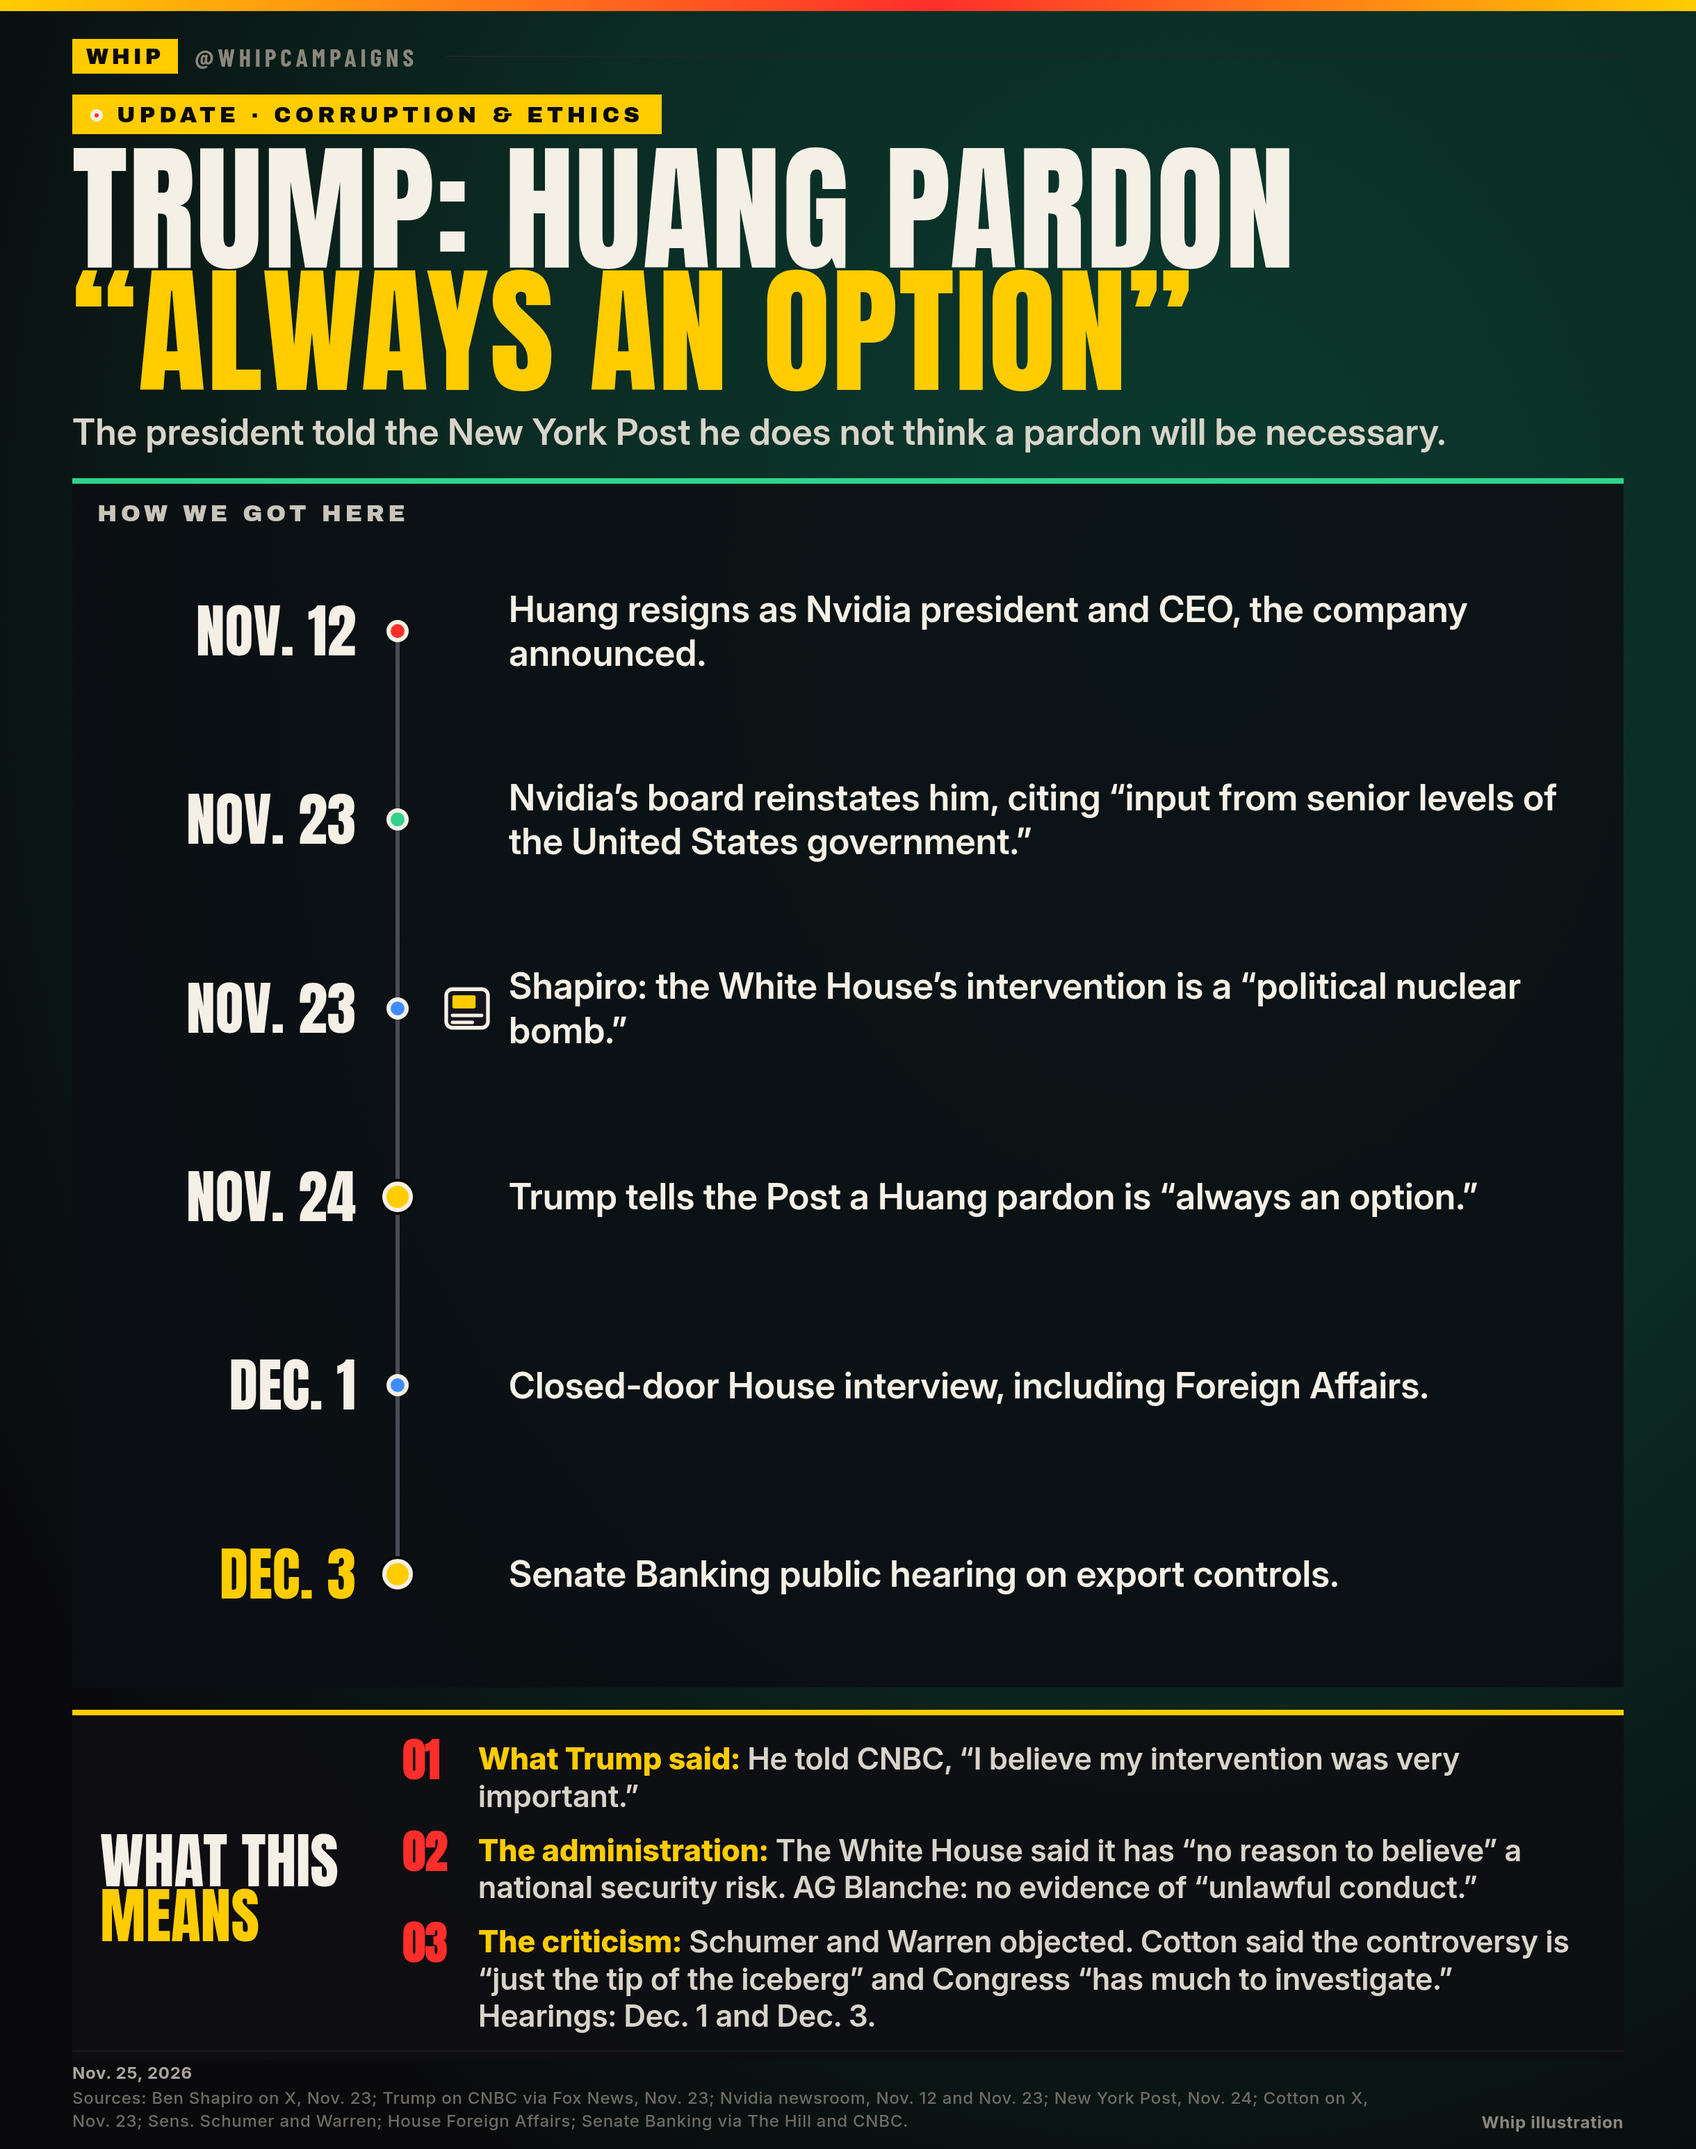
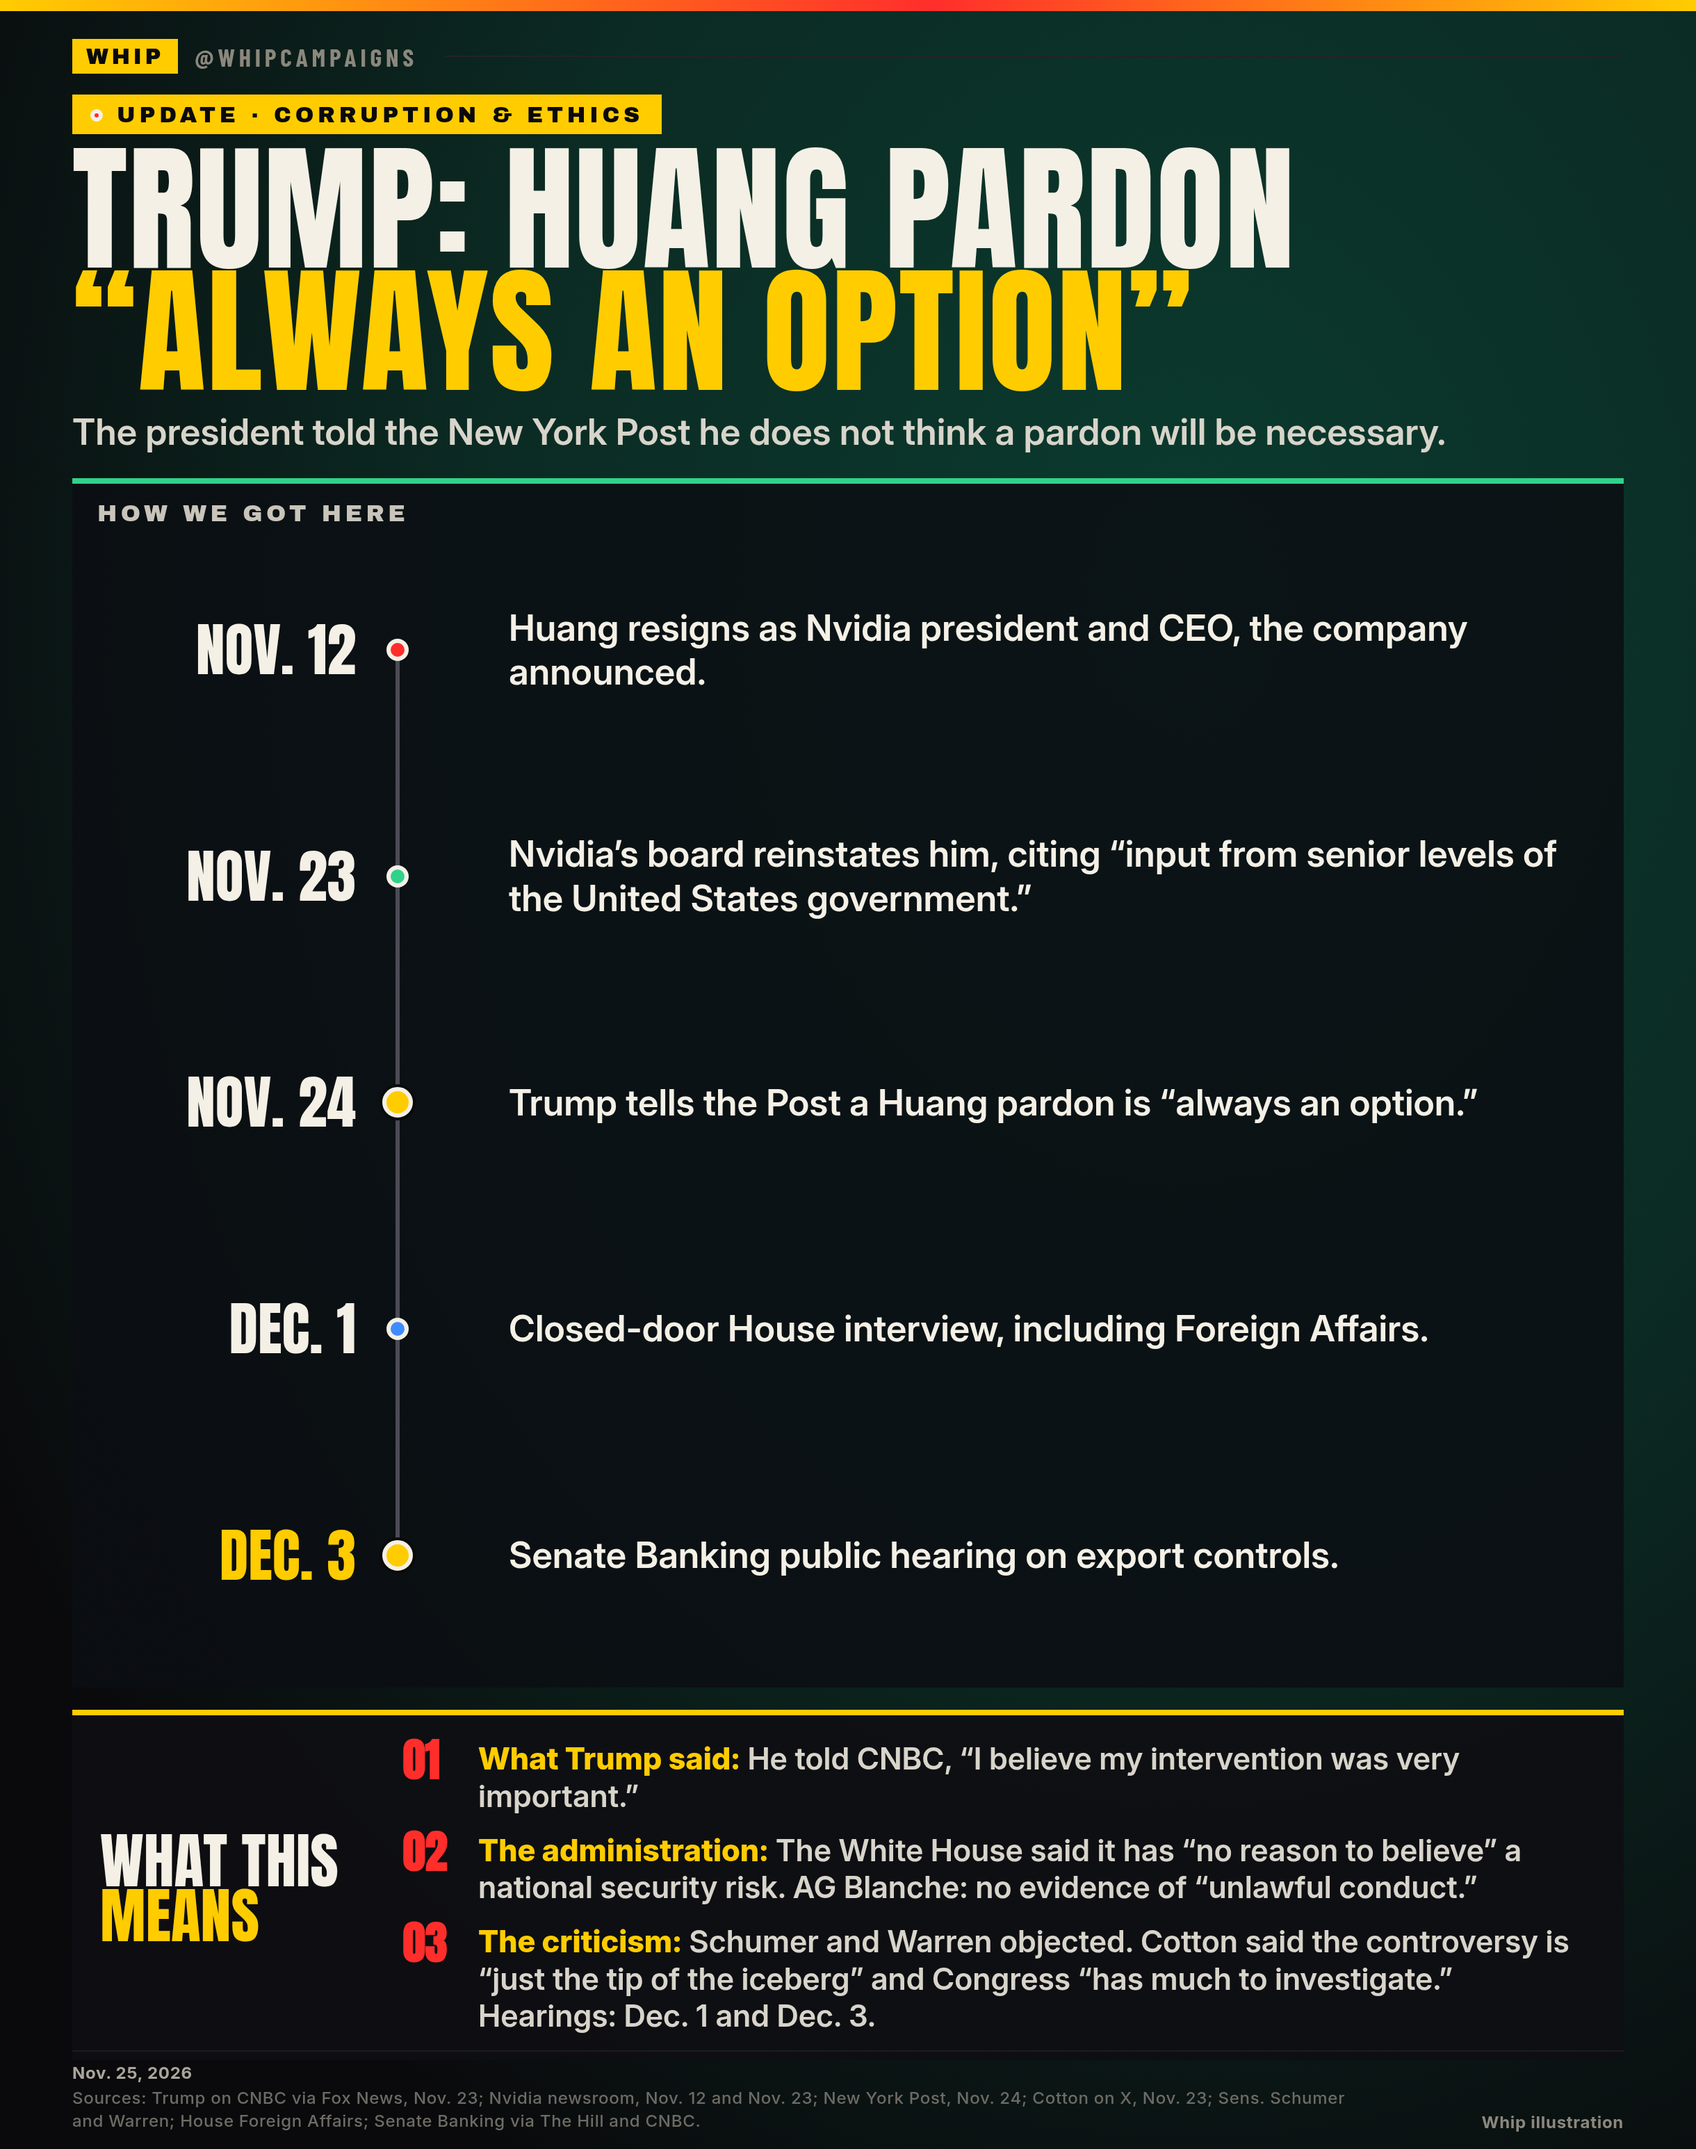
Nvidia card: drop Shapiro from timeline

diff --git a/breaking/2026-11-25-nvidia-huang-pardon/make_card.py b/breaking/2026-11-25-nvidia-huang-pardon/make_card.py
@@ -1,6 +1,6 @@
 #!/usr/bin/env python3
 """UPDATE card (TALL v4, 2440x3092): Trump told the New York Post a Jensen Huang pardon is "always an option."
-Sources: Shapiro on X (Nov. 23); Trump on CNBC via Fox News (Nov. 23); Nvidia newsroom (Nov. 12, Nov. 23);
+Sources: Trump on CNBC via Fox News (Nov. 23); Nvidia newsroom (Nov. 12, Nov. 23);
 New York Post (Nov. 24); Sen. Tom Cotton on X (Nov. 23); Sens. Schumer and Warren; House Foreign Affairs;
 Senate Banking via The Hill and CNBC. No Whip scores. Whip illustration.
 """
